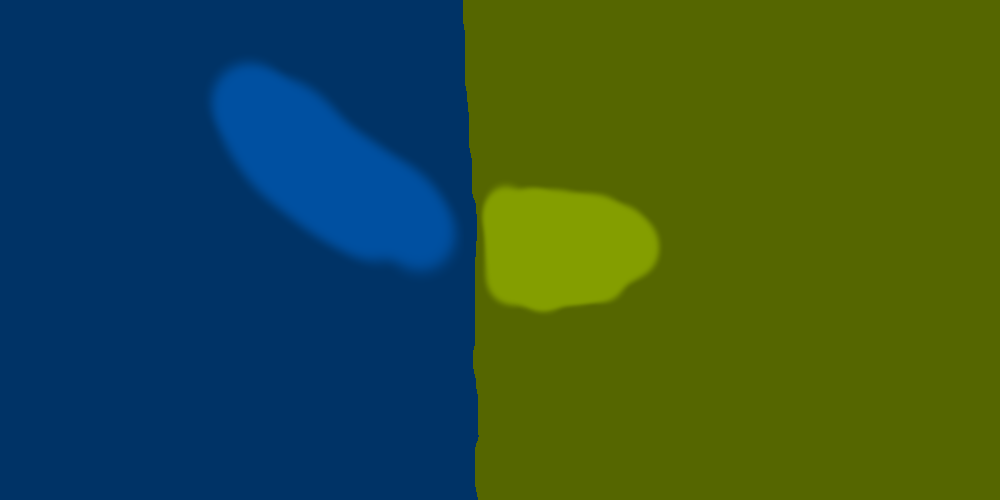
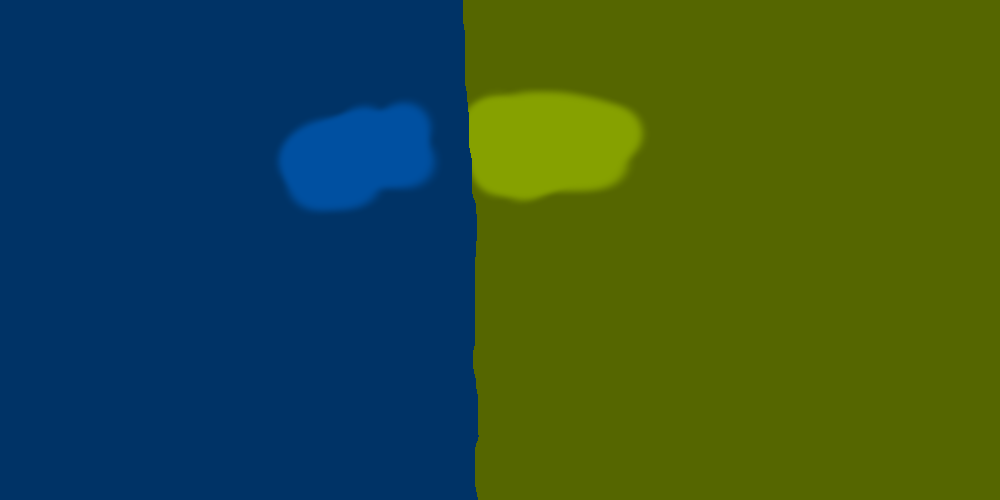
Reimplement physics, use quaternions (and integrate it), improve orogeny
[#144353115]

Changed region(s): [[0.186, 0.12, 0.682, 0.63]]

diff --git a/js/plates-model/plate.js b/js/plates-model/plate.js
@@ -1,22 +1,26 @@
 import * as THREE from 'three';
 import grid from './grid';
 import Field from './field';
+import '../three-extensions';
 
 let id = 0;
 function getId() {
   return id++;
 }
 
-const friction = 0.1;
+const FRICTION = 0.1; //0.001;
+const BASE_TORQUE_DECREASE = 0;//0.1;
 
 export default class Plate {
   constructor({ color }) {
     this.id = getId();
     this.baseColor = color;
+
     this.angularVelocity = new THREE.Vector3(0, 0, 0);
-    this.angularAcceleration = new THREE.Vector3(0, 0, 0);
     this.baseTorque = new THREE.Vector3(0, 0, 0);
-    this.matrix = new THREE.Matrix4();
+    this.totalTorque = new THREE.Vector3(0, 0, 0);
+    this.quaternion = new THREE.Quaternion();
+
     this.fields = new Map();
     this.adjacentFields = new Map();
     // Decides whether plate goes under or above another plate while subducting (ocean-ocean).
@@ -50,17 +54,12 @@ export default class Plate {
 
   // Returns absolute position of a field in cartesian coordinates (it applies plate rotation).
   absolutePosition(localPos) {
-    const pos = localPos.clone();
-    pos.applyMatrix4(this.matrix);
-    return pos;
+    return localPos.clone().applyQuaternion(this.quaternion);
   }
 
   // Returns local position.
   localPosition(absolutePos) {
-    const invMatrix = (new THREE.Matrix4()).getInverse(this.matrix);
-    const pos = absolutePos.clone();
-    pos.applyMatrix4(invMatrix);
-    return pos;
+    return absolutePos.clone().applyQuaternion(this.quaternion.clone().conjugate());
   }
 
   fieldAtAbsolutePos(absolutePos) {
@@ -69,32 +68,33 @@ export default class Plate {
     return this.fields.get(fieldId);
   }
 
-  halfUpdateVelocity(timestep) {
-    this.angularVelocity.x += 0.5 * this.angularAcceleration.x * timestep;
-    this.angularVelocity.y += 0.5 * this.angularAcceleration.y * timestep;
-    this.angularVelocity.z += 0.5 * this.angularAcceleration.z * timestep;
+  updateVelocity(timestep) {
+    this.angularVelocity.add(this.totalTorque.clone().divideScalar(this.momentOfInertia).multiplyScalar(timestep));
   }
 
   updateRotation(timestep) {
-    const angleDiff = this.angularSpeed * timestep;
-    const rotationMatrix = new THREE.Matrix4();
-    rotationMatrix.makeRotationAxis(this.axisOfRotation, angleDiff);
-    rotationMatrix.multiply(this.matrix);
-    this.matrix = rotationMatrix;
+    const w = this.angularVelocity;
+    const wQuat = new THREE.Quaternion(w.x * timestep, w.y * timestep, w.z * timestep, 0);
+    const qDiff = wQuat.multiply(this.quaternion);
+    qDiff.multiplyScalar(0.5);
+    this.quaternion.add(qDiff);
+    this.quaternion.normalize();
+  }
+
+  updateBaseTorque(timestep) {
+    const len = this.baseTorque.length();
+    if (len > 0) {
+      this.baseTorque.setLength(Math.max(0, len - timestep * BASE_TORQUE_DECREASE));
+    }
   }
 
   updateAcceleration() {
-    const totalTorque = new THREE.Vector3(0, 0, 0);
-    totalTorque.add(this.baseTorque);
+    this.totalTorque = new THREE.Vector3(0, 0, 0);
+    this.totalTorque.add(this.baseTorque);
     this.fields.forEach(field => {
-      const torque = field.torque;
-      if (torque) {
-        totalTorque.add(torque);
-      }
+      field.calcForces();
+      this.totalTorque.add(field.torque);
     });
-    const acceleration = totalTorque.divideScalar(this.momentOfInertia);
-    const frictionAcceleration = this.angularVelocity.clone().multiplyScalar(-friction);
-    this.angularAcceleration.addVectors(acceleration, frictionAcceleration);
   }
 
   updateFields(timestep) {

diff --git a/js/plates-model/field.js b/js/plates-model/field.js
@@ -4,7 +4,7 @@ import c from '../constants';
 import Subduction from './subduction';
 import Orogeny from './orogeny';
 import VolcanicActivity from './volcanic-activity';
-import viscousForce from './viscous-force';
+import { basicDrag, orogenicDrag } from './forces';
 
 // We use unit sphere (radius = 1) for calculations, so scale constants.
 const maxSubductionDist = c.subductionWidth / c.earthRadius;
@@ -34,7 +34,9 @@ export default class Field {
     this.absolutePos = this.plate.absolutePosition(this.localPos);
     this.displacement = new THREE.Vector3(0, 0, 0);
     this.collision = false;
-    this.viscousForce = null;
+
+    this.force = new THREE.Vector3(0, 0, 0);
+    this.torque = new THREE.Vector3(0, 0, 0);
 
     // When field undergoes orogeny or volcanic activity, this attribute is going lower and lower
     // and at some point field will be "frozen" won't be able to undergo any more processes.
@@ -50,18 +52,6 @@ export default class Field {
 
   get linearVelocity() {
     return this.plate.linearVelocity(this.absolutePos);
-  }
-
-  get force() {
-    // There might be more forces in the future.
-    return this.viscousForce;
-  }
-
-  get torque() {
-    if (!this.force) {
-      return null;
-    }
-    return this.absolutePos.clone().cross(this.force);
   }
 
   get isContinent() {
@@ -160,8 +150,17 @@ export default class Field {
 
     // Reset per-step collision flag.
     this.collision = false;
-    // Reset all the forces.
-    this.viscousForce = null;
+    this.orogenyCollidingPlate = null;
+  }
+
+  calcForces() {
+    const force = basicDrag(this);
+    if (this.orogenyCollidingPlate) {
+      force.add(orogenicDrag(this, this.orogenyCollidingPlate));
+    }
+
+    this.force = force;
+    this.torque = this.absolutePos.clone().cross(force);
   }
 
   collideWith(field) {
@@ -196,12 +195,15 @@ export default class Field {
                field.isContinent && this.density >= field.density ||
                this.isContinent && this.density < field.density
     ) {
-      this.viscousForce = viscousForce(this, field.plate);
+      this.orogenyCollidingPlate = field.plate;
       if (this.isContinent && field.isContinent) {
         if (!this.orogeny) {
           this.orogeny = new Orogeny(this);
         }
-        this.orogeny.calcFoldingStress(this.viscousForce);
+        this.orogeny.calcFoldingStress(this.force);
+        if (this.density > field.density && field.orogeny) {
+          field.orogeny.setFoldingStress(this.orogeny.maxFoldingStress);
+        }
       }
     }
   }

diff --git a/js/plates-model/model.js b/js/plates-model/model.js
@@ -28,21 +28,21 @@ export default class Model {
     this.populateGridMapping();
   }
 
+  get kineticEnergy() {
+    let sum = 0;
+    this.plates.forEach(plate => {
+      sum += 0.5 * plate.angularSpeed * plate.momentOfInertia;
+    });
+    return sum;
+  }
+
   step(timestep) {
-    // Velocity Verlet integration scheme.
-    // See: http://en.wikipedia.org/wiki/Verlet_integration#Velocity_Verlet
-    // 1. Calculate: v(t + 0.5 * dt) = v(t) + 0.5 * a(t) * dt
-    // 2. Calculate: r(t + dt) = r(t) + v(t + 0.5 * dt) * dt
-    // 3. Derive a(t + dt) from the interactions using r(t + dt)
-    // 4. Calculate: v(t + dt) = v(t + 0.5 * dt) + 0.5 * a(t + dt) * dt
-    // Probably it's an overkill, as collision detection and forces won't be that precise anyway,
-    // but let's set a good pattern just in case.
-    this.plates.forEach(plate => plate.halfUpdateVelocity(timestep));
+    this.plates.forEach(plate => plate.updateAcceleration());
+    this.plates.forEach(plate => plate.updateVelocity(timestep));
     this.plates.forEach(plate => plate.updateRotation(timestep));
+
     this.plates.forEach(plate => plate.updateFields(timestep));
     this.simulatePlatesInteractions(timestep);
-    this.plates.forEach(plate => plate.updateAcceleration());
-    this.plates.forEach(plate => plate.halfUpdateVelocity(timestep));
   }
 
   simulatePlatesInteractions(timestep) {

diff --git a/js/plates-model/forces.js b/js/plates-model/forces.js
@@ -1,0 +1,15 @@
+// Basic drag force of the tectonic plate. It ensures that the plate reaches some stable speed.
+export function basicDrag(field) {
+  return field.linearVelocity.clone().multiplyScalar(-0.02);
+}
+
+// Drag force between given field and other plate when orogeny is undergoing.
+// It's applied when two continents collide (or when continent gets stuck at the ocean's border).
+export function orogenicDrag(field, plate) {
+  const force = field.linearVelocity.sub(plate.linearVelocity(field.absolutePos));
+  let forceLen = force.length();
+  if (forceLen > 0) {
+    force.setLength(-1 * Math.pow(forceLen, 0.5));
+  }
+  return force;
+}

diff --git a/js/three-extensions.js b/js/three-extensions.js
@@ -1,0 +1,17 @@
+import * as THREE from 'three';
+
+THREE.Quaternion.prototype.multiplyScalar = function (scalar) {
+  this.x *= scalar;
+  this.y *= scalar;
+  this.z *= scalar;
+  this.w *= scalar;
+  return this;
+};
+
+THREE.Quaternion.prototype.add = function (quaternion) {
+  this.x += quaternion.x;
+  this.y += quaternion.y;
+  this.z += quaternion.z;
+  this.w += quaternion.w;
+  return this;
+};

diff --git a/js/plates-view/plate-mesh.js b/js/plates-view/plate-mesh.js
@@ -107,7 +107,8 @@ export default class PlateMesh {
   }
 
   update() {
-    this.basicMesh.rotation.setFromRotationMatrix(this.plate.matrix);
+    // this.basicMesh.rotation.setFromRotationMatrix(this.plate.matrix);
+    this.basicMesh.setRotationFromQuaternion(this.plate.quaternion);
     if (this.velocities) {
       this.velocities.update();
     }

diff --git a/js/plates-view/vector-field.js b/js/plates-view/vector-field.js
@@ -6,7 +6,7 @@ const WIDTH = 0.004;
 const NULL_POS = {x: 0, y: 0, z: 0};
 const MIN_LENGTH = 0.0001;
 const MULT = {
-  'force': 0.1
+  'force': 1
 };
 
 export default class VectorField {

diff --git a/js/plates-model/orogeny.js b/js/plates-model/orogeny.js
@@ -1,4 +1,4 @@
-const FOLDING_STRESS_FACTOR = 3;
+const FOLDING_STRESS_FACTOR = 10;
 
 // Set of properties related to orogenesis. Used by Field instances.
 export default class Orogeny {
